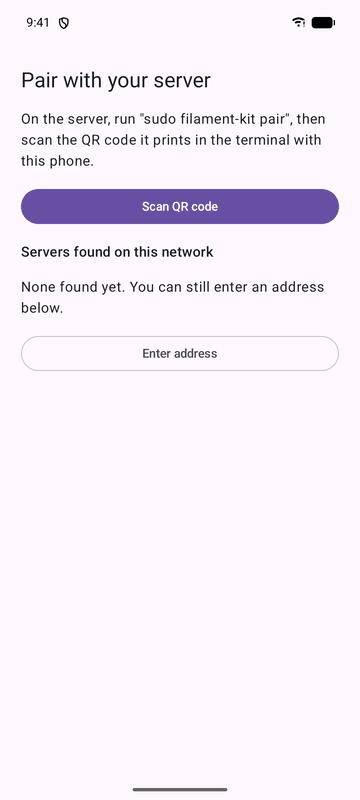
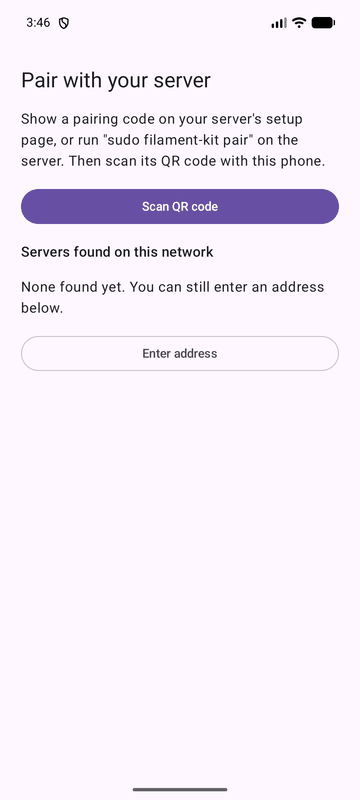
docs: pairing guide for the fingerprint check (type the two blank groups), setup page as a code source, new pairing screenshots, update-refused paragraph

diff --git a/docs/android-app.md b/docs/android-app.md
@@ -19,7 +19,8 @@ access**, red **Can't reach the server** or **The server's certificate changed**
    sudo filament-kit pair
    ```
 
-   It prints a QR code, the server's certificate fingerprint and a 6-digit code, good for about 10 minutes.
+   It prints a QR code, the server's certificate fingerprint and a 6-digit code, good for about 10 minutes. (The
+   server's setup page, `https://<computer name>.local:8710/setup`, can show a pairing code too.)
 2. Open the app. On Android 17 and newer, tap **Allow** when it asks for **local network access**. Without it the
    app can't find or reach your server. If you said no, the app shows **Allow** again, and **Open app settings**
    once Android stops asking.
@@ -27,21 +28,22 @@ access**, red **Can't reach the server** or **The server's certificate changed**
    opens with a green **Connected**. **Keep the white border around the QR code**: scan it from the whole
    Terminal window, and don't crop it or zoom in so far that the border is cut off.
 
-<img src="images/android-pair-start.png" width="240" alt="Pair with your server: Scan QR code or Enter address">
+<img src="images/android-pair-start.png" width="240" alt="Pair with your server: Scan QR code, servers found on this network, Enter address">
 
 **No camera, or the code won't scan?** On **Pair with your server**:
 
-1. Under **Servers found on this network**, tap your server. If it isn't listed, tap **Enter address** and type the
-   computer's name with `.local` (for example `my-server.local`) or its IP address; leave **Port** at 8710, and
-   tap **Connect**.
-2. **Check the server's fingerprint** appears. Compare it with the fingerprint in the Terminal. If they match,
-   tap **It matches**. If not, tap **It does not match** and stop.
+1. Under **Servers found on this network**, tap your server: it goes straight to the fingerprint check. If it isn't
+   listed, tap **Enter address** and type the computer's name with `.local` (for example `my-server.local`) or its IP
+   address; leave **Port** at 8710, and tap **Connect**.
+2. **Check the server's fingerprint** appears with two groups of the fingerprint left blank. Find the fingerprint
+   shown with the pairing code on the server (in the Terminal, or on the setup page) and type the two missing
+   groups. If they match, tap **Continue**. If they differ, tap **It does not match** and stop.
 3. Type the **6-digit code** from the Terminal.
 
 **If it fails:** the code works once and expires; run `sudo filament-kit pair` again for a new one. Other
 problems are in [Install the Android app](install-android-app.md#common-problems).
 
-<img src="images/android-pair-fingerprint.png" width="240" alt="Check the server's fingerprint: It matches or It does not match">
+<img src="images/android-pair-fingerprint.png" width="240" alt="Check the server's fingerprint: type the two blank groups, then Continue, or It does not match">
 
 **Unpair or pair again.** On the phone: **Settings** shows the server's name, address and certificate fingerprint.
 **Forget server** (it asks to confirm; the spools stay on the server) unpairs this phone, and then you pair again

diff --git a/docs/install-android-app.md b/docs/install-android-app.md
@@ -51,7 +51,8 @@ Pairing lets the app trust your server and lets the server know your phone. You 
    ```
 
    It shows a QR code, the server's certificate fingerprint and a 6-digit pairing code. They are good for about
-   10 minutes. (The installer showed the same at the end of the install; if that code is still fresh, use it.)
+   10 minutes. (The installer showed the same at the end of the install; if that code is still fresh, use it. The server's setup page,
+   `https://<computer name>.local:8710/setup`, can show a pairing code too.)
 
 2. **On the phone**, the app opens on **Pair with your server**. It asks for each permission only when it first
    needs it, not at the start:
@@ -65,11 +66,13 @@ Pairing lets the app trust your server and lets the server know your phone. You 
 
 **If the camera can't read the QR code** (a small or blurry Terminal window helps neither):
 
-1. Under **Servers found on this network**, tap your server. If it's not listed, tap **Enter address** and type
-   the computer's name with `.local` (for example `my-server.local`) or its IP address. Leave **Port** at 8710.
-2. The app shows **Check the server's fingerprint**. Compare it with the fingerprint `sudo filament-kit pair`
-   printed. If they are the same, tap **It matches**. If not, tap **It does not match** and stop: something else
-   is answering at that address.
+1. Under **Servers found on this network**, tap your server: it goes straight to the fingerprint check. If it's not
+   listed, tap **Enter address** and type the computer's name with `.local` (for example `my-server.local`) or its IP
+   address. Leave **Port** at 8710.
+2. The app shows **Check the server's fingerprint** with two groups left blank. Find the fingerprint shown with the
+   pairing code (in the Terminal, or on the server's setup page) and type the two missing groups. If they are the
+   same, tap **Continue**. If they differ, tap **It does not match** and stop: something else is answering at that
+   address.
 3. Under **Enter the pairing code**, type the 6-digit code.
 
 To pair another phone, run `sudo filament-kit pair` again: each code works once.
@@ -85,6 +88,13 @@ The home screen shows the buttons **Add spool**, **Add profile**, **Search**, **
 The app updates itself from your server. When the server has a newer app (after `sudo filament-kit update`),
 the home screen shows **Update available**. Tap **Tap to install**. The first time, Android asks to let
 filament-kit install apps: allow it, go back and tap **Tap to install** again.
+
+### Update refused
+
+If the app's own update says **Don't install this update** and you did not build the app yourself, don't uninstall
+the app. A release update is always signed like the app you already have, so a refusal means this file is not from
+the same maker: check who runs the server and where its app came from. (This is different from **App not installed**
+below, which happens when you install a downloaded file over an older copy signed by someone else.)
 
 ## Common problems
 
